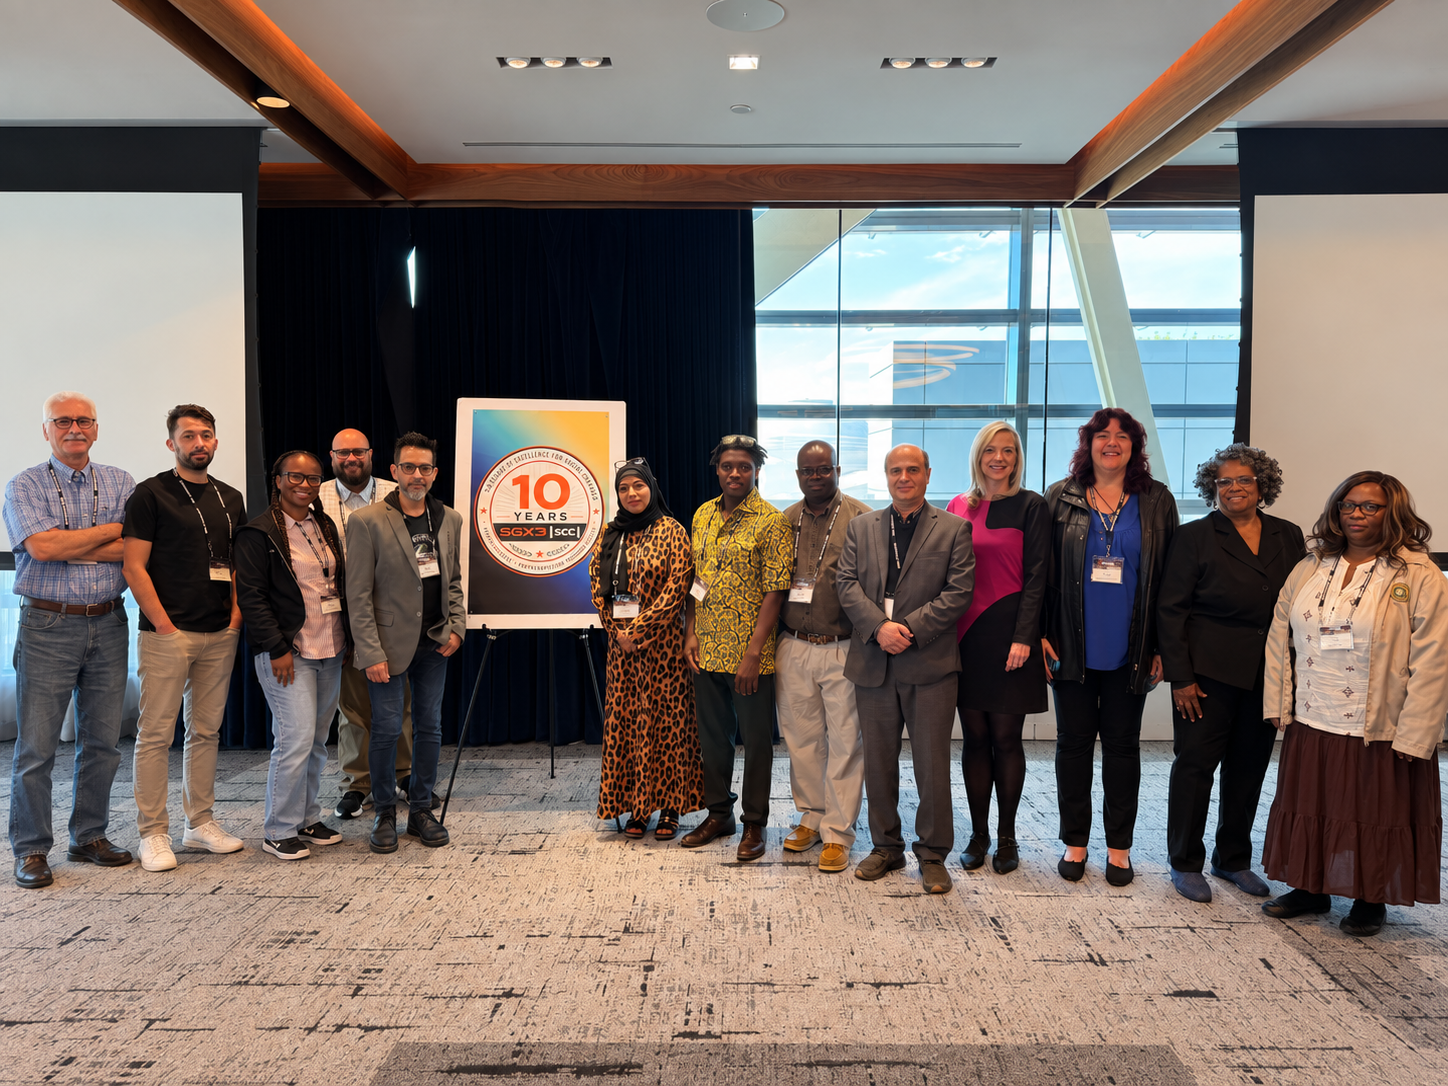
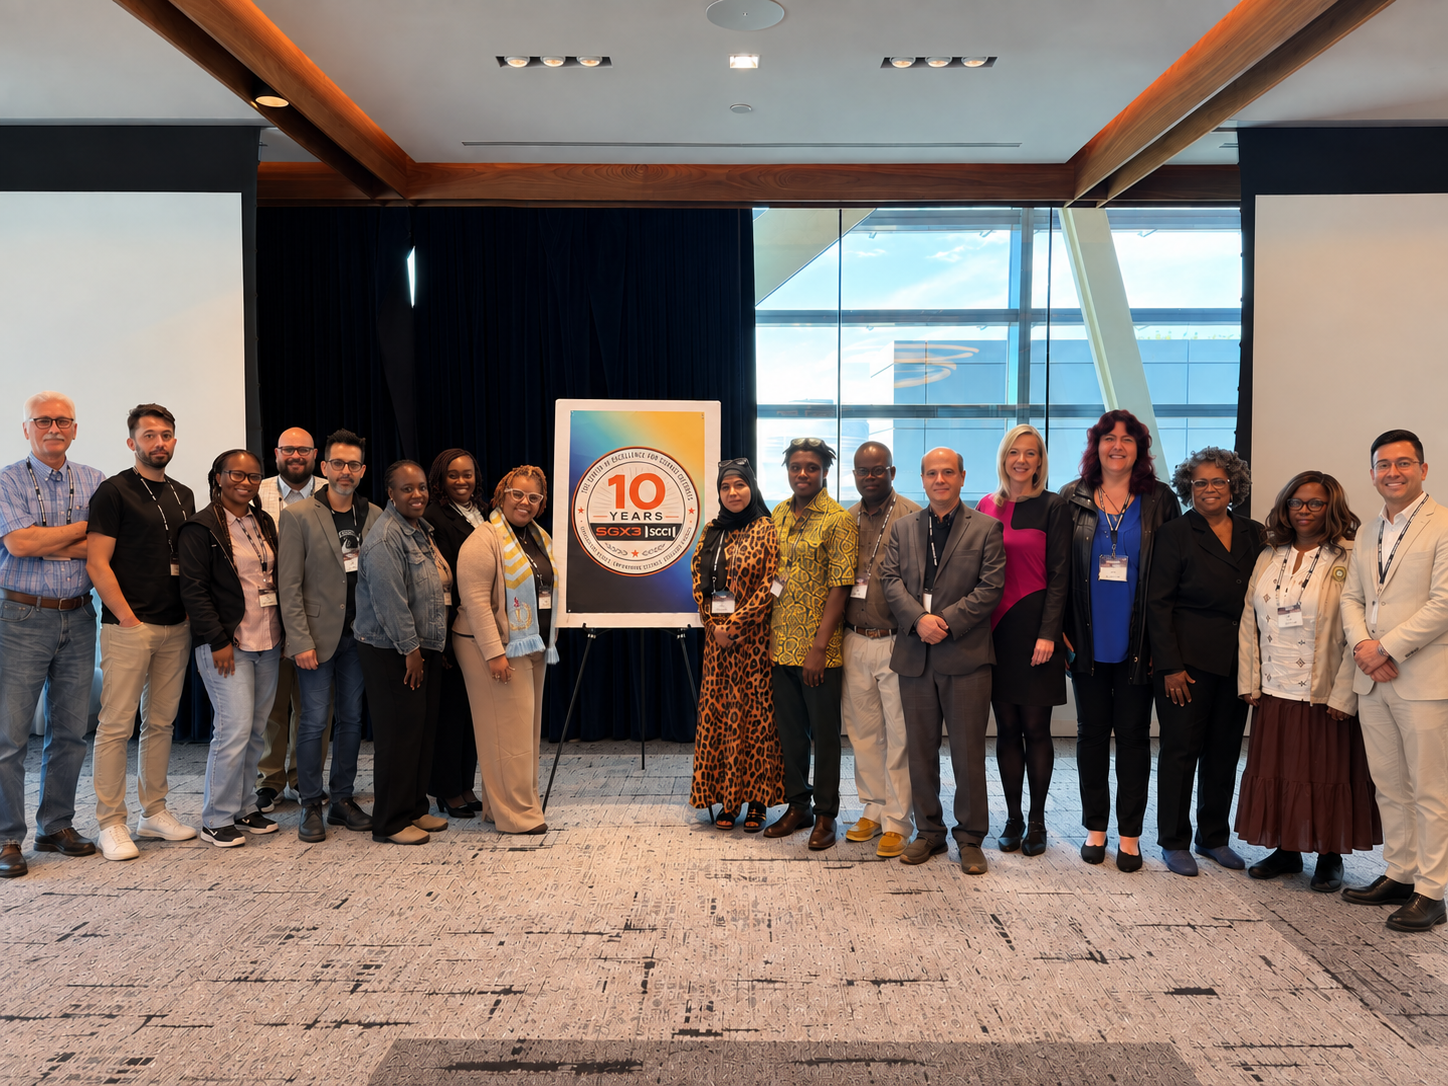
added gateways group shot

diff --git a/PICKUP_AND_GO.md b/PICKUP_AND_GO.md
@@ -1134,6 +1134,62 @@ under the new filename; verified in the built HTML that it's slide
 "1 of 15" (up from 14) and that the originals-backup folder is still
 absent from `_site/`.
 
+**Caption corrected twice, same day, by request**: the anniversary
+poster in the photo actually reads "SGX3 | SGCI 10th Anniversary" — the
+first-draft caption had mistyped it "SGX3 | SCC 10th-anniversary,"
+fixed in both `_data/gallery_captions.yml` and this section's prose
+above. Then the venue was added — the photo was taken at **The Johns
+Hopkins University Bloomberg Center in Washington, DC** — appended to
+the same caption string.
+
+**Source photo swapped for an updated version, same day, by request**
+("replace the current group photo with
+`gateways26-facultyhack-groupphoto-modified.png`"). The new source —
+also dropped directly into
+`assets/files/sgx3_facultyhack_pictures_originals/`, same as the first
+one — is a larger composite of the same group in the same spot (more
+people visible, same SGX3 | SGCI poster). Re-derived the served file at
+the **same path**,
+`assets/files/sgx3_facultyhack_pictures/00-gateways26-groupphoto.png`
+(`exif_transpose` + save, no resize needed — 1448×1086 again), so no
+caption or filename change was needed, just the image content. The
+original `gateeways26_groupphoto-mod.png` source was initially left in
+place in the originals-backup folder (harmless there, since that folder
+is excluded from the build) — **then removed by request the same day**
+(`git rm`, since it was already a tracked/committed file, not just an
+untracked one — staged, not committed, per this project's standing
+"only commit when explicitly asked" rule). Verified: structural check
+passes, and the served PNG's file size changed when the source was
+swapped (confirming the replacement actually took), while the gallery
+still shows 15 photos, not 16.
+
+### 16th photo added: full conference group shot (2026-09-25)
+
+By request — the user dropped
+`assets/files/sgx3_facultyhack_pictures_originals/Gateways26 group
+shot.png` in and described it as "a group shot of the Gateways26
+conference participants." Actually viewed it (not captioned from the
+description alone): a much larger rooftop group photo — dozens of
+attendees, not just FacultyHack's cohort — with the U.S. Capitol
+visible in the background, distinct from the smaller indoor
+FacultyHack-only photo already at `00-gateways26-groupphoto.png` (same
+event, different moment/crowd, not a duplicate).
+
+No specific position was requested this time (unlike the pinned "first"
+photo above), so it was left to sort naturally: derived the served copy
+as `assets/files/sgx3_facultyhack_pictures/gateways26-conference-groupshot.png`
+(note: the source filename had spaces and mixed case —
+`Gateways26 group shot.png` — renamed to this project's established
+hyphenated-lowercase convention for served paths, same as
+`virtual-groupshot.png`; `ImageOps.exif_transpose` + save, no resize
+needed at 1448×1086). That name's leading `g` sorts after every
+`IMG_*.jpeg` (uppercase `I` < lowercase `g` in ASCII) and before
+`virtual-groupshot.png` (`g` < `v`) — landed at position 15 of 16,
+right before the Zoom screenshot, without any explicit ordering logic.
+Caption added to `_data/gallery_captions.yml`. Verified in the built
+HTML: 16 distinct photos in the expected order, correct escaped
+caption/alt text, structural check clean.
+
 ## Nav/hero/footer redesign
 
 This went through many small iterative requests. Current end state first,
